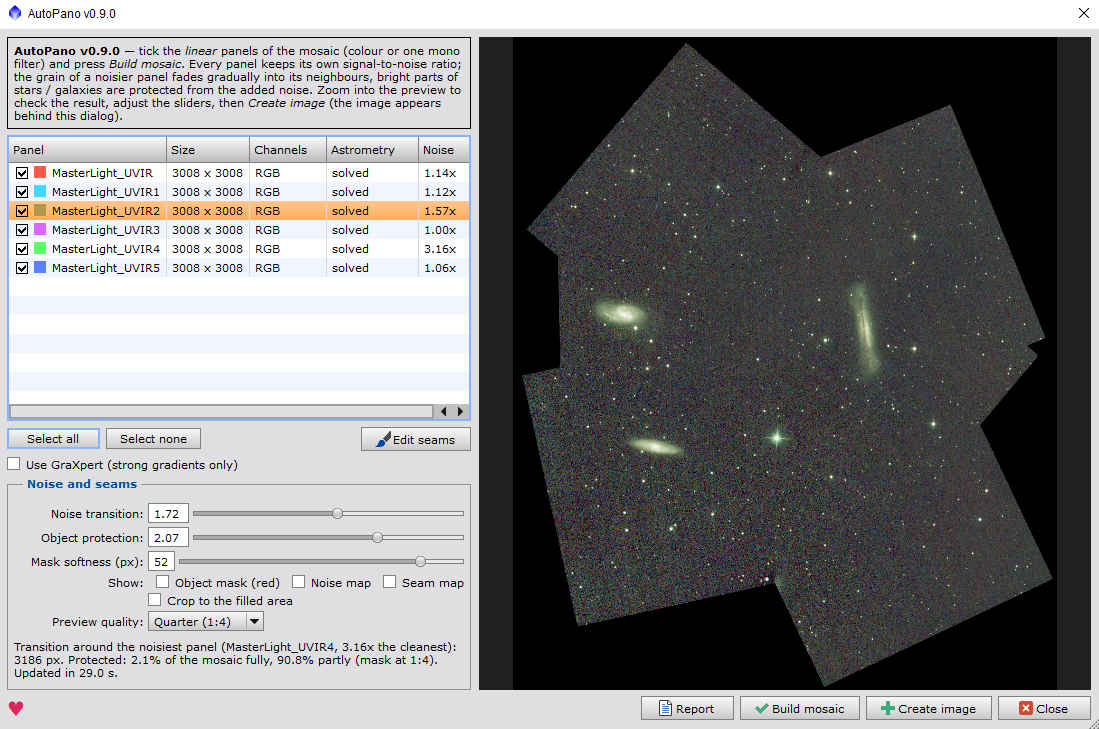
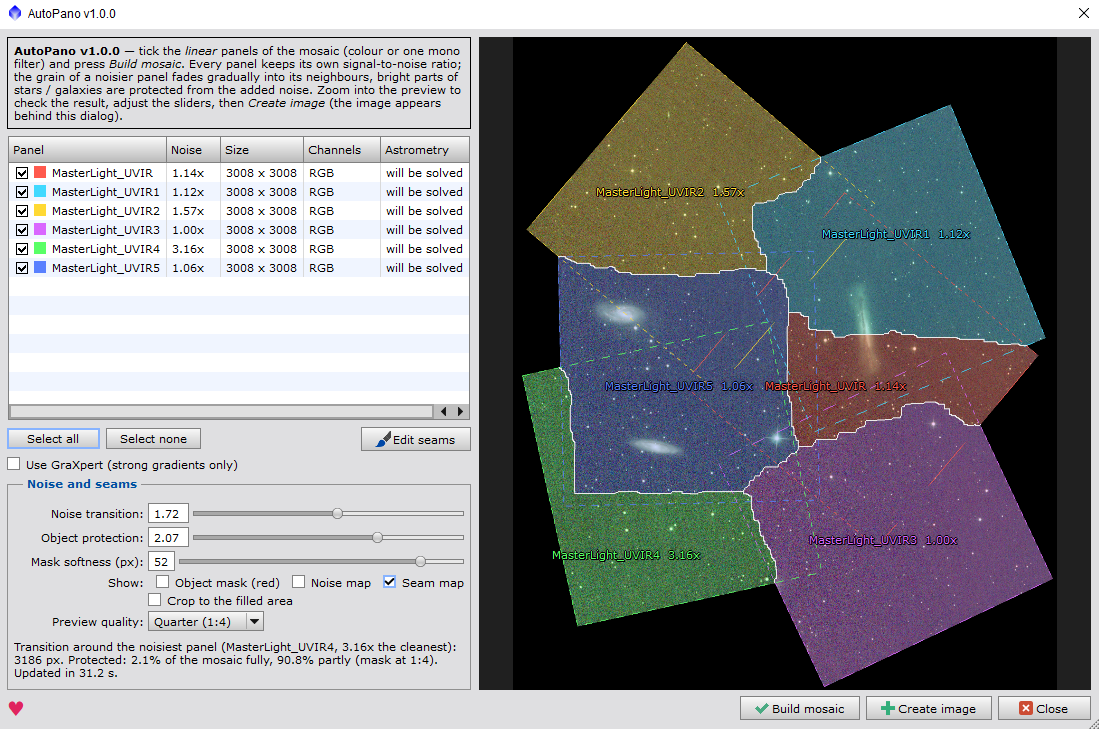
AutoPano 1.0.1; new screenshot

diff --git a/README.md b/README.md
@@ -2,7 +2,7 @@
 
 **One-button seamless mosaic of linear deep-sky panels — with a seam brush when you want control.**
 
-![AutoPano window: Leo Triplet, 6 colour panels](screenshot.png)
+![AutoPano window: Leo Triplet, 6 colour panels, seam map on](screenshot.png)
 
 Open the stacked panels of a mosaic (linear masters, colour or one mono filter), tick them and press **Build mosaic**. AutoPano:
 
